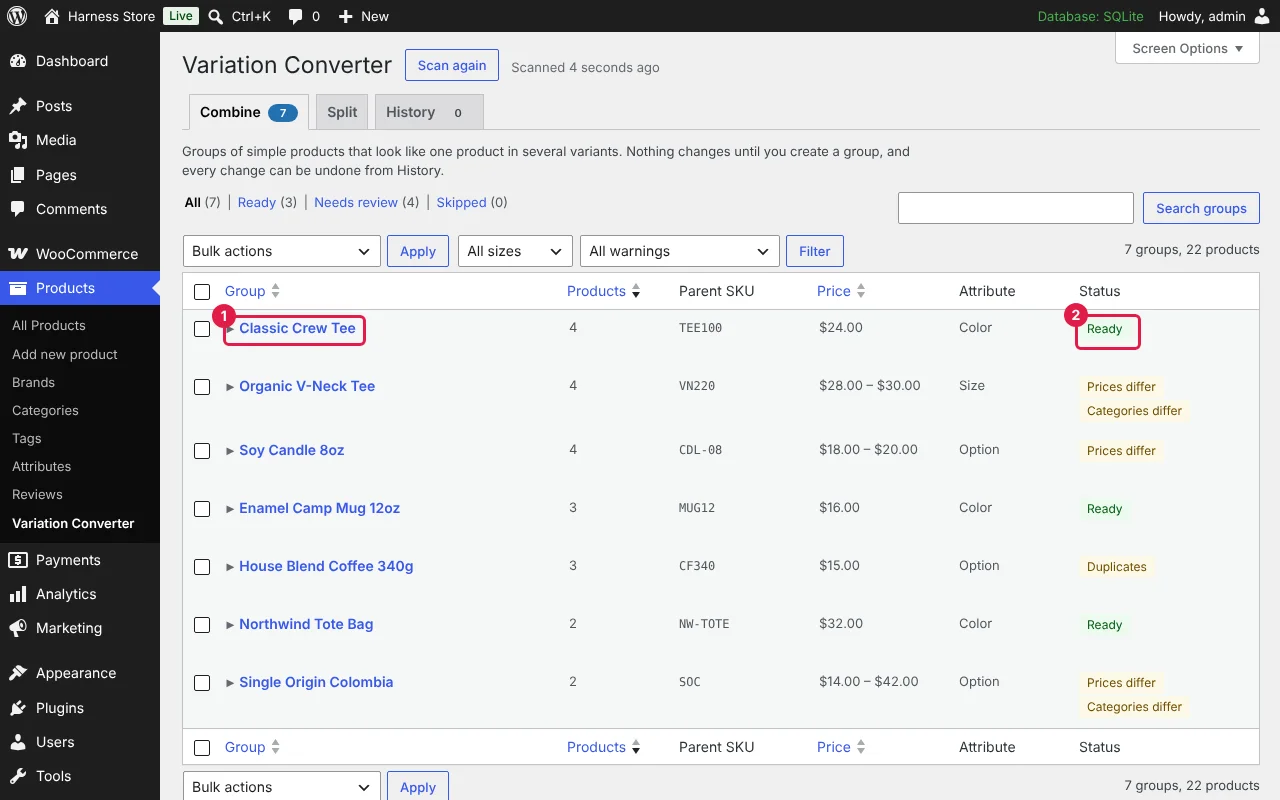
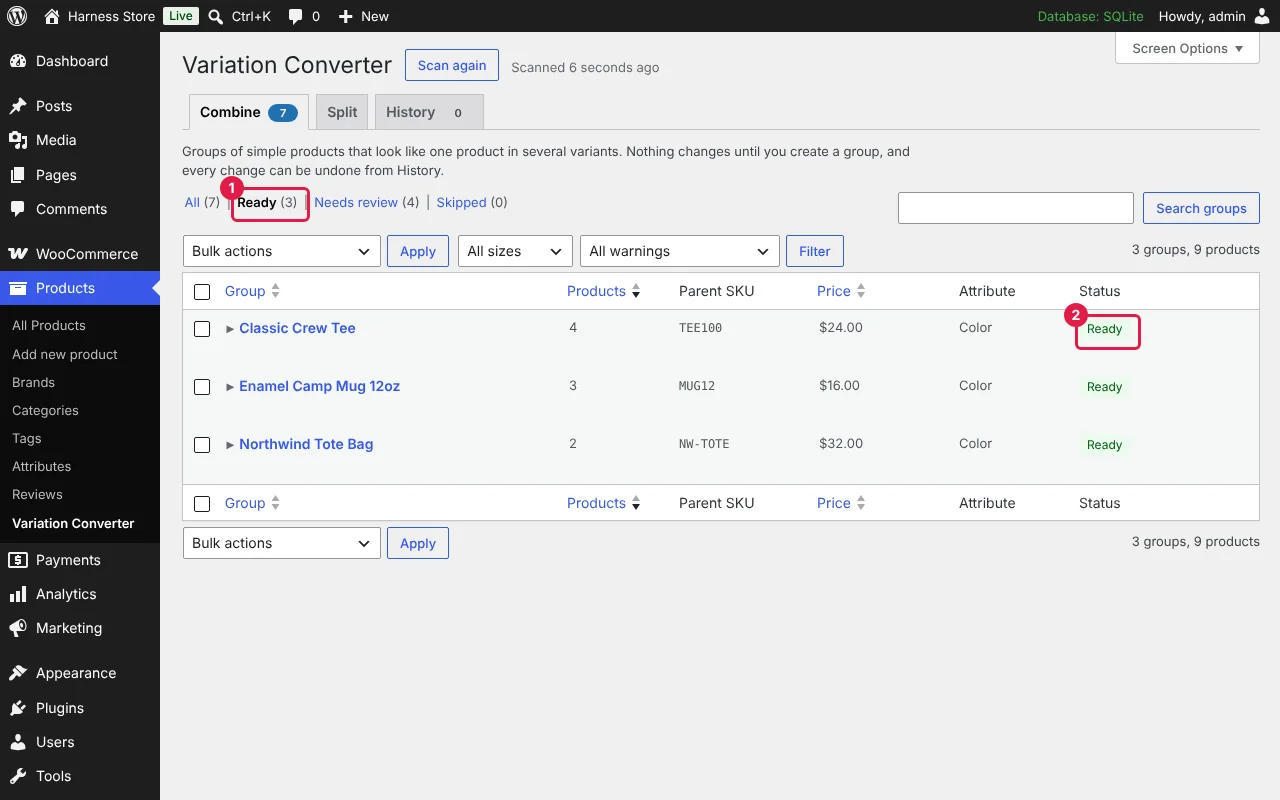
Suggest starting with the Ready groups in the combine step
First-time users are pointed at the Ready view, whose groups have no
warnings, before working through Needs review. The first screenshot now
shows that view. Capture scripts use the plugin's new page=varconv slug.

Claude-Session: https://claude.ai/code/session_01Cpgkw5hH9mFBY9dGyLwW5c

diff --git a/content/topics/products/03-combine-into-variable.md b/content/topics/products/03-combine-into-variable.md
@@ -5,6 +5,7 @@ time: 5–10 minutes per group
 cost: Free
 checklist:
   - Open the Combine tab and look through the suggested groups
+  - Click Ready and combine the groups listed there first, if there are any
   - Open a group and leave out any product that doesn't belong
   - Check the product name, attribute and the label for each variation
   - Click Create variable product
@@ -14,6 +15,10 @@ checklist:
 ## Review the suggested groups
 
 The **Combine** tab lists groups of simple products that look like one product in several variants. A group is suggested when the SKUs share a family (TEE100-BLA, TEE100-NAV) and the names start the same way. The **Status** column shows **Ready**, or what is worth a second look, such as "Prices differ" or "Categories differ". The **Needs review** view lists only those.
+
+## Start with the Ready groups
+
+If this is your first time, click **Ready** above the list. It shows only the groups with no warnings, so their prices, categories and labels already line up. Combine those first, one at a time or all together with **Bulk actions**, then work through **Needs review**. If Ready shows no groups, go straight to Needs review.
 
 ## Check the group
 
